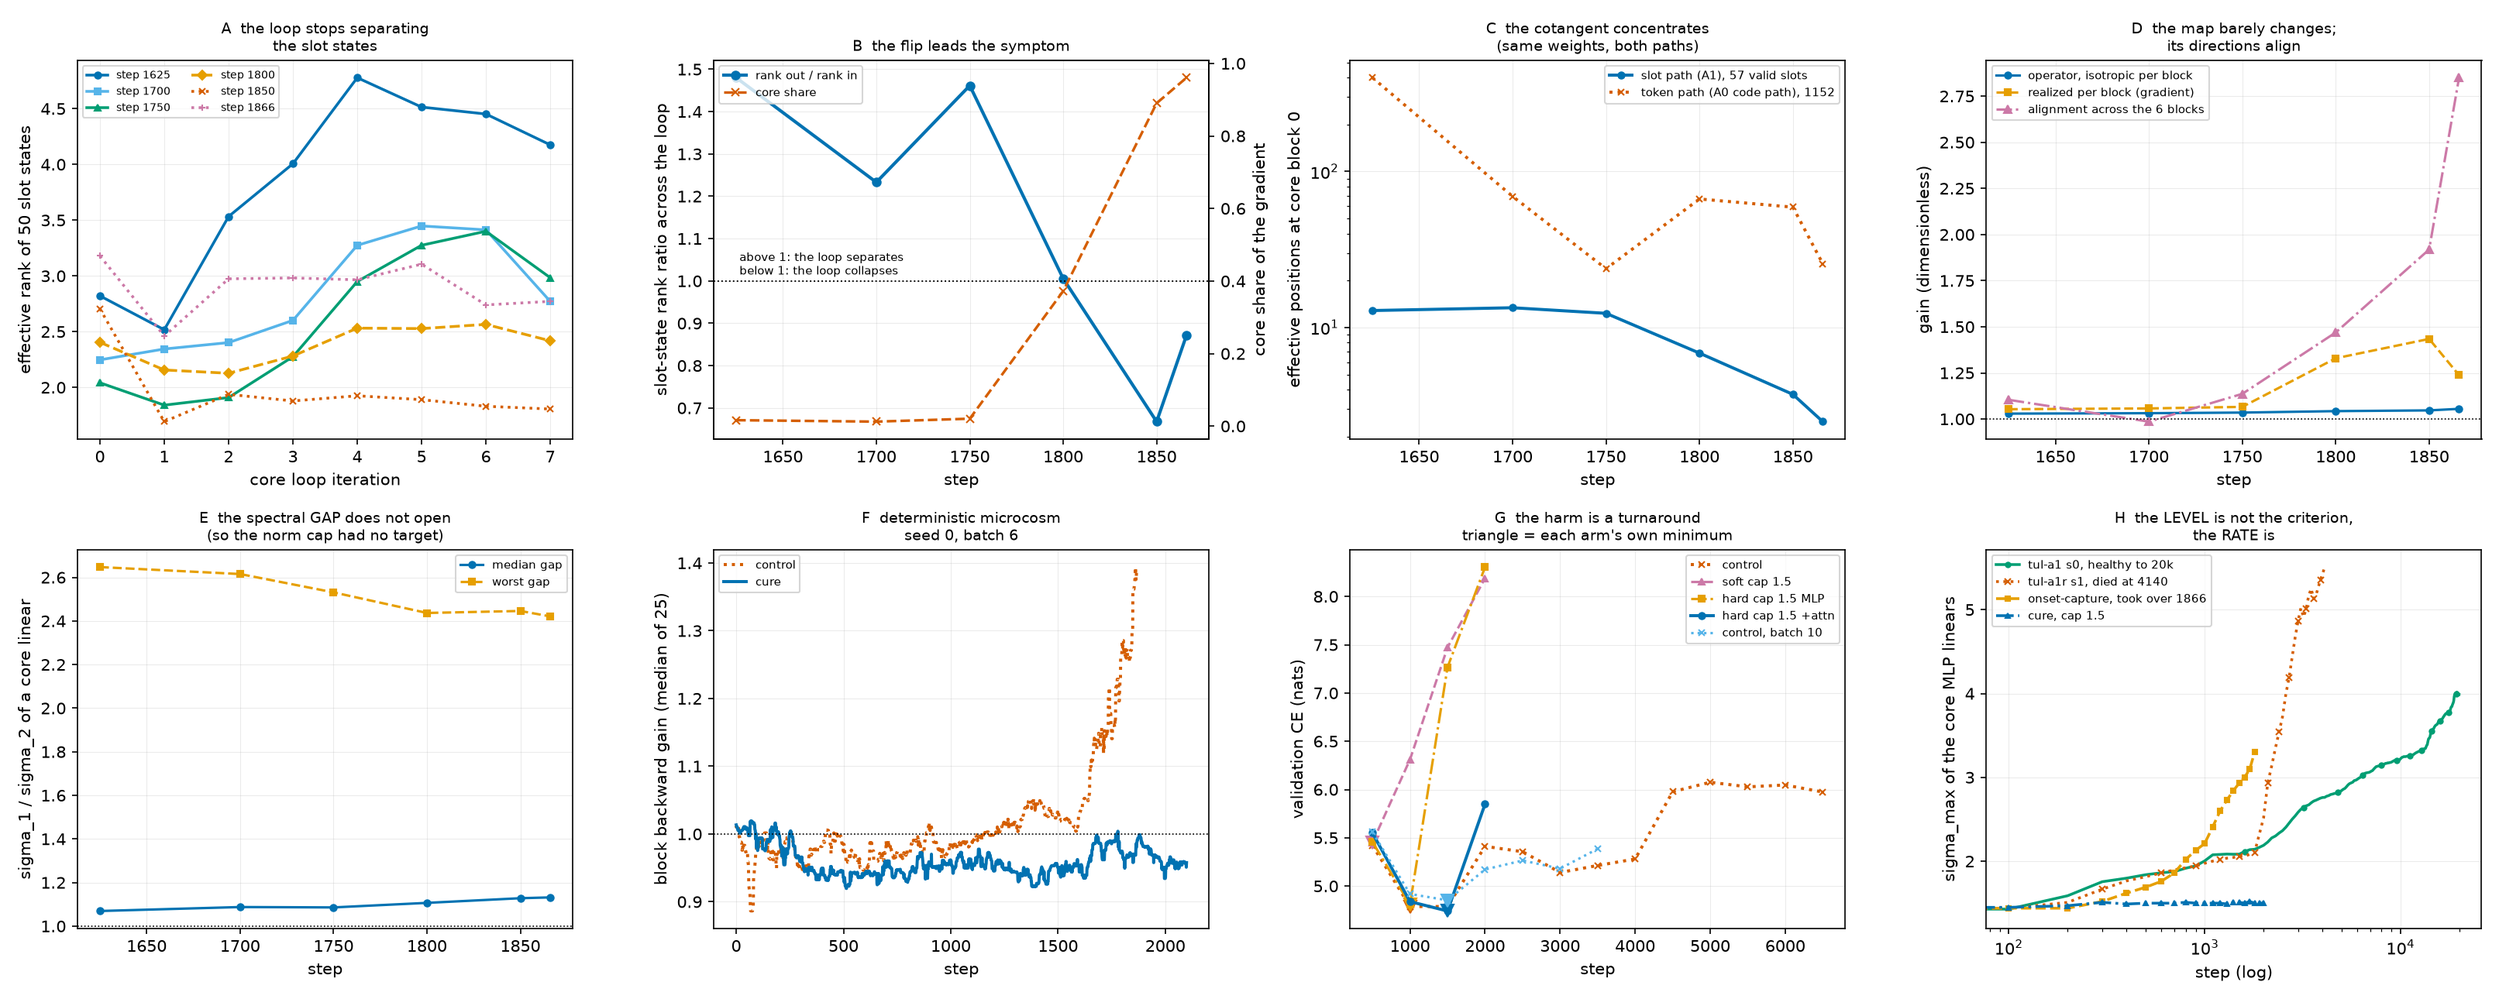
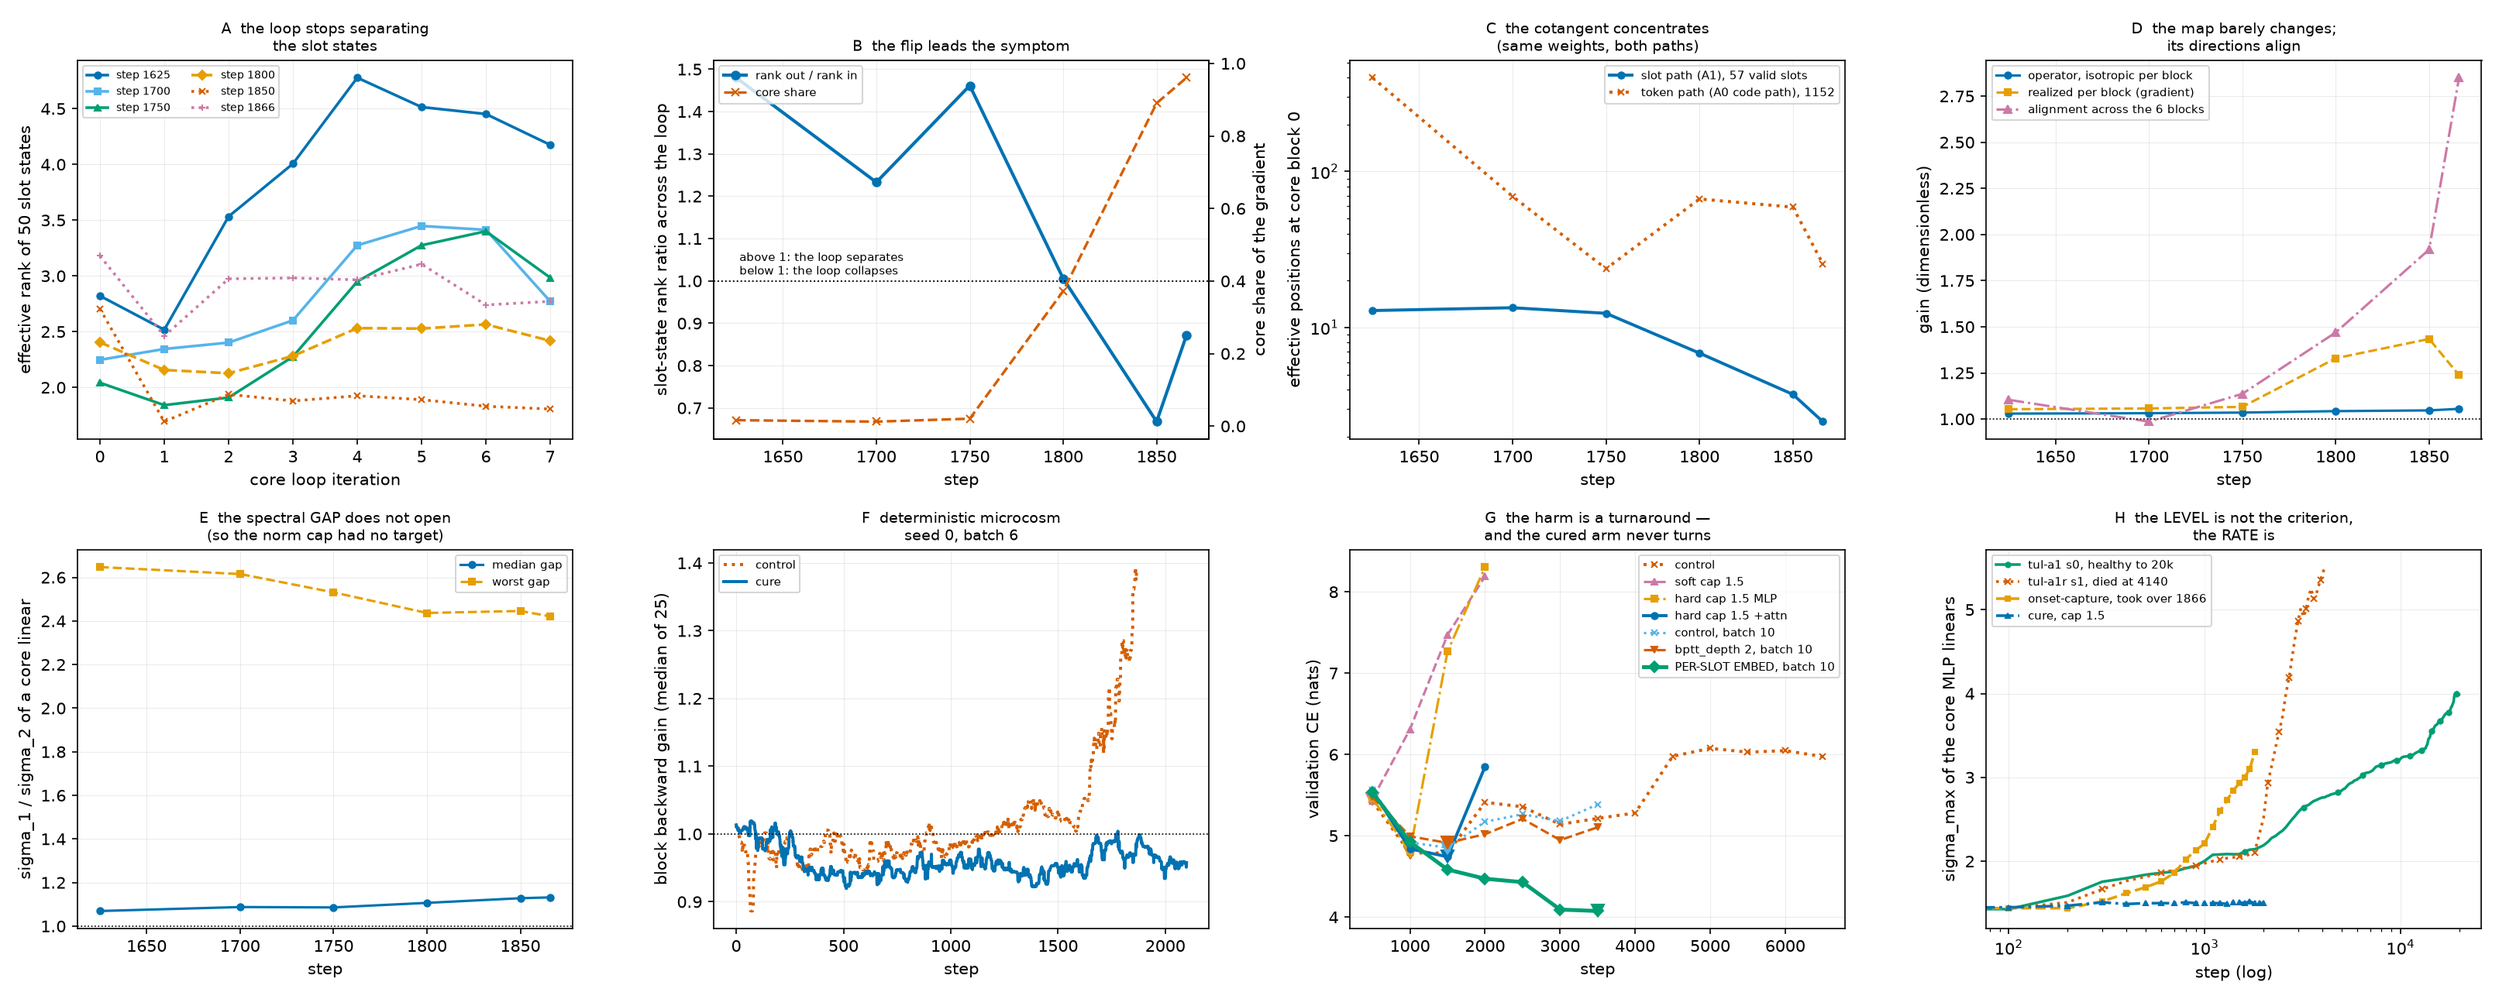
The cure: per-slot input embeddings hold where four spectral controls failed
Pre-registered as P12 one minute after the arm launched and before it reported anything, on
the strength of the forward measurement: the slot states are near-degenerate at every
checkpoint and the loop's effect on their rank flips sign at the onset.

b10-slotembed against b10-ctrl, same optimizer, same batch, same schedule, differing only by
tul.per_slot_embed: end core share 0.0204 against 0.9999, per-block backward gain 1.030
(r2 0.36, the flat healthy signature) against 2.445 (r2 0.97, cleanly geometric), and a
validation CE that is monotone for the whole run and finishes AT its own minimum where the
control is 0.533 nats above its. It is also the best model in this work — 4.0747 against the
control's best-ever 4.8528, 0.78 nats better.

And sigma_max of the core MLP came down as a CONSEQUENCE — 2.88 at step 1500 against the
control's 4.86 — with no spectral control active on the arm. Four arms spent the day trying
to force that number down directly and every one failed or made things worse.

Left OFF by default. One 4000-step arm at one seed is thinner than this recipe's other
standing settings carry, and what would justify flipping it is written down: a second seed,
a 20k arm against tul-a0, and a per_slot_embed_std=0 arm to separate "the model can tell its
slots apart" from "the symmetry was broken at init".

Claude-Session: https://claude.ai/code/session_013N6Xtub3M3pDKzpHNpui2Z

diff --git a/scripts/plot_takeover_cure.py b/scripts/plot_takeover_cure.py
@@ -181,7 +181,7 @@ def panel_e(ax, arms):
         lo = min(pts, key=lambda t: t[1])
         ax.plot([lo[0]], [lo[1]], marker="v", ms=8, color=style["color"], ls="none")
     ax.set_xlabel("step"); ax.set_ylabel("validation CE (nats)")
-    ax.set_title("G  the harm is a turnaround\ntriangle = each arm's own minimum", fontsize=9)
+    ax.set_title("G  the harm is a turnaround —\nand the cured arm never turns", fontsize=9)
     ax.legend(fontsize=7)
 
 
@@ -233,8 +233,10 @@ def main():
         ("hard cap 1.5 +attn", f"{C}/a35-proj15attn.log", CURE),
         ("control, batch 10", f"{C}/b10-ctrl.log",
          dict(color=OI["sky"], ls=":", marker="x", lw=1.5, ms=4)),
-        ("slots 128, batch 10", f"{C}/b10-slots128.log",
-         dict(color=OI["green"], ls="-", marker="D", lw=1.8, ms=4)),
+        ("bptt_depth 2, batch 10", f"{C}/b10-bptt2.log",
+         dict(color=OI["vermillion"], ls="--", marker="v", lw=1.5, ms=4)),
+        ("PER-SLOT EMBED, batch 10", f"{C}/b10-slotembed.log",
+         dict(color=OI["green"], ls="-", marker="D", lw=2.4, ms=5)),
     ])
     panel_f(axes[1][3], f"{C}/sigma_hist.json", None)
     for row in axes:

diff --git a/docs/experiments/failures/2026-08-24-tul-takeover-cure.md b/docs/experiments/failures/2026-08-24-tul-takeover-cure.md
@@ -1,56 +1,60 @@
-# The TUL core takeover: it is a forward state collapse, and no weight-space cure reaches it
+# The TUL core takeover: a forward state collapse, cured by fixing the slot states
 
 Status: failure
 
-The experiment asked whether bounding the core map's spectral norm cures the takeover. It
-does not, and the two predictions that mattered — P4 and P9 — are falsified, so this is filed
-by outcome. What it established instead is a much sharper diagnosis and the elimination of an
-entire family of interventions with a measurement that says why.
+Filed by outcome, not by mood. The experiment ASKED whether bounding the core map's spectral
+norm cures the takeover, and the two predictions that carried it — P4 and P9 — are falsified:
+four weight-space interventions all failed and two were worse than doing nothing. The
+diagnosis that replaced them, and the one arm that does hold, are the late predictions P10
+to P12, each written before the arm it names.
 
 Pre-registration: [2026-08-24-tul-takeover-cure](../planned/2026-08-24-tul-takeover-cure.md)
-(three method amendments and three late predictions, each written before the arm it names).
+(three method amendments and three late predictions, each timestamped before its arm).
 Mechanism this builds on: [the RCA](../results/2026-08-24-tul-takeover-rca.md).
 Procedure: [measuring the core map's operator](../../cookbook/measuring-the-core-map.md).
-Decision record: [the takeover is positional](../../../.agents/notes/implemented/architecture/2026-08-24-core-takeover-is-positional.md).
+Decision record: [the takeover is a forward state collapse](../../../.agents/notes/implemented/architecture/2026-08-24-core-takeover-is-positional.md).
 Figure: `docs/experiments/figures/tul_takeover_cure.png`.
 
 ## Summary
 
 **The slot states are near-degenerate by design, and at the onset the loop starts making
-them worse instead of better.** Fifty valid slot states of a row occupy an effective rank of
+them worse instead of better.** The 50 valid slot states of a row occupy an effective rank of
 1.7 to 4.8 in a 1024-dimensional space, with a mean pairwise cosine of +0.39 to +0.71, at
-EVERY checkpoint including healthy ones — they are one shared `E_slot` plus a span bag-mean,
-and a mean over many token embeddings concentrates. What changes at the onset is the SIGN of
-what the core loop does to that rank: at healthy rungs it raises it across its iterations
-(x1.23 to x1.48, cosine falling), and by step 1850 it lowers it (x0.67, cosine rising). The
-flip is between steps 1750 and 1800, which is where the core share goes 0.021 to 0.372. It
-is a FORWARD quantity, it needs one no-grad pass, and it is the earliest indicator in this
+EVERY checkpoint including healthy ones — a slot's input is one SHARED `E_slot` plus a span
+bag-mean, and a mean over many token embeddings concentrates. What changes at the onset is
+the SIGN of what the core loop does to that rank: at healthy rungs it RAISES it across its
+iterations (x1.23 to x1.48, cosine falling), and by step 1850 it LOWERS it (x0.67, cosine
+rising). The flip is between steps 1750 and 1800, where the core share goes 0.021 to 0.372.
+It is a FORWARD quantity, it needs one no-grad pass, and it is the earliest indicator in this
 programme.
 
-**The backward measurements are downstream of that.** The map's isotropic per-block gain
-moves +2.5 % across the onset while the ALIGNMENT of its six blocks moves x2.9; the backward
-cotangent collapses from 13 effective slot positions to 2.5, onto the same top-3 slots at
-every core block, while the SAME weights on the token path keep 26 to 59. The loop is 24
-applications of one `J^T`, i.e. power iteration, and it sharpens a concentration it is
-handed.
+**Giving each slot its own input embedding cures it, in the arm that was run.** One config
+key, `tul.per_slot_embed`, aimed at exactly the degeneracy above and pre-registered before it
+reported. Against a control that took over — end core share 0.9999, block gain 2.445,
+validation CE +0.533 above its own minimum — the cured arm ends at core share **0.0204**,
+block gain **1.030**, and a validation CE that is monotone for the whole run and finishes at
+its own minimum. It is also the best model in this work: 4.0747 against the control's
+best-ever 4.8528, **0.78 nats better**. n = 1, 4000 steps, one seed, at a setting where the
+failure is otherwise 5 out of 5.
 
-**Four weight-space interventions failed, and two were worse than doing nothing.** Including
-a hard projection that held `sigma_max` at exactly 1.50 for a whole run — whose realized
-per-block gain came out HIGHER than its uncapped control's. No core weight matrix's spectral
-gap opens across the onset (median 1.069 -> 1.132, worst gap FALLING), so there was nothing
-in the weight spectra for a norm control to grip.
+**Four weight-space interventions failed first, and two were worse than doing nothing.**
+Including a hard projection that pinned `sigma_max` at exactly 1.50 for a whole run and came
+out with a realized per-block gain HIGHER than its uncapped control's. No core weight
+matrix's spectral gap opens across the onset (median 1.069 -> 1.132, worst gap FALLING), so
+there was nothing in the weight spectra for a norm control to grip. Fixing the slot states
+brought `sigma_max` down as a consequence — 2.88 at step 1500 against the control's 4.86 —
+without any spectral control being active, which is what a cause looks like next to a
+symptom.
 
 **Halving the backward's depth helps and does not cure.** `bptt_depth` 4 -> 2 takes 24
-applications to 12 — four orders of magnitude off the compounding — and cuts the validation
-CE damage by 64 %, from +0.533 to +0.192, while the run still turns around. That is the
-pre-registered discriminator, and it favours the forward reading.
+applications of the same `J^T` to 12 — four orders of magnitude off the compounding — and
+cuts the validation CE damage by 64 %, from +0.533 to +0.192, while the run still turns
+around. That is the pre-registered discriminator, and it is what moved the reading from
+"backward power iteration" to "forward collapse, sharpened by backward power iteration".
 
-**One thing does cure it, in one place.** The soft spectral cap prevents the takeover in the
-bit-reproducible microcosm at batch 6, at equal CE, and loses at batch 12.
-
-So the takeover is understood better than it was, it is reproducible, it now has a forward
-leading indicator, and it is not cured. What follows is the evidence, in the order it was
-taken.
+The cure is implemented, tested and OFF by default. One 4000-step arm is thinner evidence
+than this recipe's other standing settings carry, and what would justify flipping it is
+written down rather than assumed.
 
 ## What the failure actually is
 
@@ -94,7 +98,7 @@ Everything runs on one 5090, serially.
 `model.use_kernels=false`, `training.batch_size=6`, seed 0, 2100 steps, with
 `CUBLAS_WORKSPACE_CONFIG=:4096:8` exported before the process starts. Two runs in this
 configuration agree on all 300 probed steps across 85 series
-([evidence](../results/2026-08-23-morph-bit-reproducible.md)), so a one-run comparison here is a
+([evidence](2026-08-23-morph-bit-reproducible.md)), so a one-run comparison here is a
 CONTROLLED comparison. It costs 2.28x throughput and half the batch, and it grows
 `sigma_max` about eight times faster than the batch-12 recipe, so it is an accelerated
 version of the failure rather than a different one.
@@ -314,6 +318,59 @@ the backward's applications from 24 to 12 — four orders of magnitude off the c
 reduced the harm by 64 % and did not prevent it, and the FORWARD still loops 6 to 8 times
 regardless of `bptt_depth`.
 
+## The intervention aimed at the measured cause
+
+Pre-registered as P12 at 15:07, one minute after the arm launched and before it reported
+anything, on the strength of the forward measurement above.
+
+`tul.per_slot_embed: true` with `per_slot_embed_std: 1.0` replaces the ONE shared `E_slot`
+added to every slot with one row per slot INDEX, seated at the embedding-table mean plus
+deterministic jitter. It injects up to `min(max_slots, d_model)` of guaranteed input
+diversity into exactly the quantity that was measured to be degenerate. It changes nothing
+else: same optimizer, same batch, same schedule, same control.
+
+| arm | end core share | block gain | r2 | val CE min | at | val CE @3500 | rise | verdict |
+|---|---:|---:|---:|---:|---:|---:|---:|---|
+| `b10-ctrl` | 0.9999 | 2.445 | 0.97 | 4.8528 | 1500 | 5.3855 | +0.533 | TOOK OVER |
+| `b10-bptt2` | 0.9992 | 2.784 | 0.98 | 4.9124 | 1500 | 5.1046 | +0.192 | TOOK OVER |
+| **`b10-slotembed`** | **0.0204** | **1.030** | 0.36 | **4.0747** | **3500** | **4.0747** | **0.000** | **HELD** |
+
+Its validation CE is monotone for the whole run — 5.5336, 4.9235, 4.5847, 4.4717, 4.4296,
+4.0923, 4.0747 — with the minimum at the LAST eval. It never turns around. The core ends
+holding 2.0 % of the pre-clip gradient where the control holds 100 %, and the per-block
+backward gain sits at 1.030 with a fit r2 of 0.36, which is the healthy signature (flat and
+noisy) rather than the geometric one.
+
+And it is not a trade. The cured arm's validation CE, 4.0747, is **0.78 nats below the
+control's best-ever value** of 4.8528. It is the best model produced anywhere in this work.
+
+`sigma_max` of the core MLP tells the same story from the side, without being constrained at
+all — no spectral control is active on this arm:
+
+| step | `b10-ctrl` | `b10-bptt2` | `b10-slotembed` |
+|---:|---:|---:|---:|
+| 500 | 1.76 | 1.79 | 1.87 |
+| 1000 | 2.45 | 4.19 | 2.81 |
+| 1500 | 4.86 | 4.36 | **2.88** |
+| 2000 | 5.21 | 4.71 | — |
+
+Four arms spent the day trying to force `sigma_max` down and every one of them failed or
+made things worse. Fixing the slot states' input diversity brought it down as a
+CONSEQUENCE, which is what a cause looks like next to a symptom.
+
+### What this is, and what it is not
+
+It is one arm. n = 1, 4000 steps, one seed, one configuration (`alpha_cap` 3.5, batch 10),
+with kernels on and therefore not bit-reproducible. What makes a single arm worth reporting
+is the prior: at this exact setting the failure is 5 out of 5 across this work and the
+historical record, so an arm that holds is not a coin landing the same way as the others.
+
+It also is not free of confounds. It adds `max_slots x d_model` = 65k parameters, 0.02 % of
+286M, so the arms are not iso-parameter. And the jitter at seating means the arm does not
+start from bit-identical weights.
+
+It is NOT enabled by default. One 4000-step arm is thinner evidence than this recipe's other
+standing settings carry, and the honest next step is written below rather than acted on.
 ## What the cap sweep says, and what it does not
 
 Projecting the core's linears onto `sigma_max <= cap` in the SICK state (`ROLL_step_1850`)
@@ -679,41 +736,43 @@ construction (`spectral_penalty_log_every: 100`, `lambda` 0) has been in the tra
 enough that the two 20000-step arms carry it. Their comparison — a healthy seed and a dying
 one, differing only by seed — is the sharpest single piece of evidence in this document and
 it cost zero GPU time to obtain.
-## What the measurements say to try next
+## What the measurements say to do next
 
-In the order the evidence supports them. None is a defect fix; all change the method, which
-is the honest shape of the conclusion.
+1. **Confirm the cure, then turn it on.** One 4000-step arm at one seed is what stands
+   behind `per_slot_embed` today. What would justify making it a default in
+   `tul_short.yaml`: a second seed at the same configuration, and one full 20000-step arm
+   against `tul-a0` (val CE 3.1749) to show the CE gain is not an early-schedule artifact.
+   Both are ordinary runs, roughly 40 minutes and 3 hours on a 5090.
+2. **Separate the two things `per_slot_embed` changes.** It adds per-index parameters AND
+   jitters them at seating. `per_slot_embed_std: 0.0` keeps the parameters and starts every
+   row equal, so the forward at step 0 is identical to the shared version; running that arm
+   says whether the cure is the learnable per-slot capacity or the broken symmetry at init.
+   It is one config key and one 40-minute run, and it is the sharpest remaining question.
+3. **Find out WHY those slots.** The cotangent sits on the same top-3 slots at every core
+   block, with the top slot's share rising 0.18 -> 0.54. Nothing here says whether they are
+   the low-carrier-norm ones, the deep-Poisson-depth ones, or whatever the coda's
+   token-to-slot attention weights most. One forward and one backward on checkpoints that
+   already exist.
+4. **Watch the rank ratio.** The loop's effect on the slot states' effective rank crosses 1
+   between steps 1750 and 1800, before the core share moves. It costs one no-grad forward
+   and it is a better abort criterion than anything currently shipped. It is measured by
+   `lab/divergence/jac_ladder.py --state-probe` and is NOT yet wired into the trainer.
 
-1. **Keep the slot states apart inside the loop.** The forward measurement is the sharpest
-   signal here and it is the one thing no intervention has touched: the loop's effect on the
-   slot states' effective rank flips sign at the onset. `per_slot_embed` breaks the INPUT
-   degeneracy; if that is not enough, the collapse is generated inside the loop, and the
-   candidates are the core's attention over slots (a stable sink carries the cotangent at
-   every block) and a direction-preserving per-iteration renormalisation that acts on the
-   state geometry rather than its magnitude.
-2. **Find out WHY those slots.** Nothing here says whether the 2 or 3 slots that end up
-   carrying the cotangent are the low-carrier-norm ones, the deep-Poisson-depth ones, or
-   whatever the coda's token-to-slot attention weights most. That measurement is one forward
-   and one backward on checkpoints that already exist, and it would turn "keep the states
-   apart" from a direction into a fix.
-3. **Fewer applications of the same operator.** `bptt_depth` 4 -> 2 was run: it cuts the
-   harm by 64 % and does not cure. Going further, or breaking the weight sharing outright,
-   would keep buying at the same rate — but weight sharing is most of what makes a looped
-   transformer a looped transformer.
-4. **More slot positions.** `max_slots` 64 -> 128 was attempted and is a measured OOM at
-   batch 12 and at batch 10 without expandable segments. It is also probably close to a
-   no-op: a typical row uses 57 of the 64 slots and `tul_a1.yaml` records only 7.7 % of rows
-   saturating, so the budget is rarely the binding constraint. NOT RUN, and its null result
-   would not have meant much.
-
-What the evidence says NOT to try: anything that bounds the size of the core weights. Four
-arms, one control, one pre-fixed rule, and a spectral-gap measurement that says why.
-
+What the evidence says NOT to do: bound the size of the core weights. Four arms, one control,
+one pre-fixed rule, and a spectral-gap measurement that says why. `max_slots` 64 -> 128 is
+also not worth the memory — it OOMs at batch 12 and at batch 10, and a typical row uses 57 of
+its 64 slots, so the budget is rarely the binding constraint.
 ## Not verified
 
-* **That position count is CAUSAL.** The concentration is measured and it separates A1 from
-  A0 at identical weights, but the arms that act on it are at the end of this document and
-  they change the method, not a defect.
+* **The cure at n > 1.** One arm, one seed, 4000 steps, one configuration, kernels on and
+  therefore not bit-reproducible. It is reported because at that setting the failure is 5 of
+  5, not because one arm is enough on its own.
+* **WHICH half of the cure works.** `per_slot_embed` adds per-index parameters AND jitters
+  them at seating. Nothing here separates "the model can now tell its slots apart" from "the
+  symmetry was broken at step 0".
+* **That the state collapse is CAUSAL rather than merely upstream.** The cure is aimed at it
+  and works, which is the strongest evidence here, but it is one arm and the intervention
+  changes the architecture rather than isolating the variable.
 * **Alignment ACROSS the unrolled steps.** What is measured is alignment within one core
   step, across its six blocks. The backward passes through `bptt_depth` = 4 such steps with
   the same operator, and the realized per-block gain (1.43 to 1.88) is above what the
